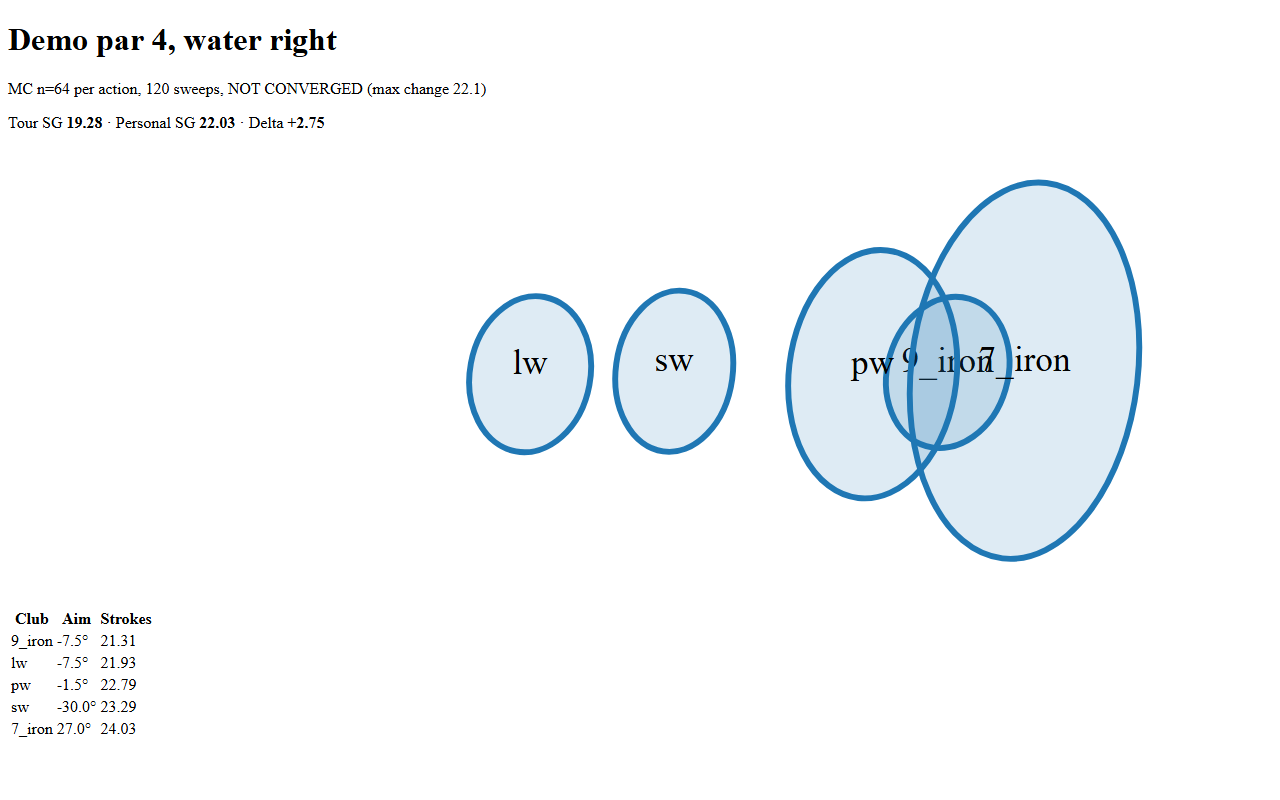
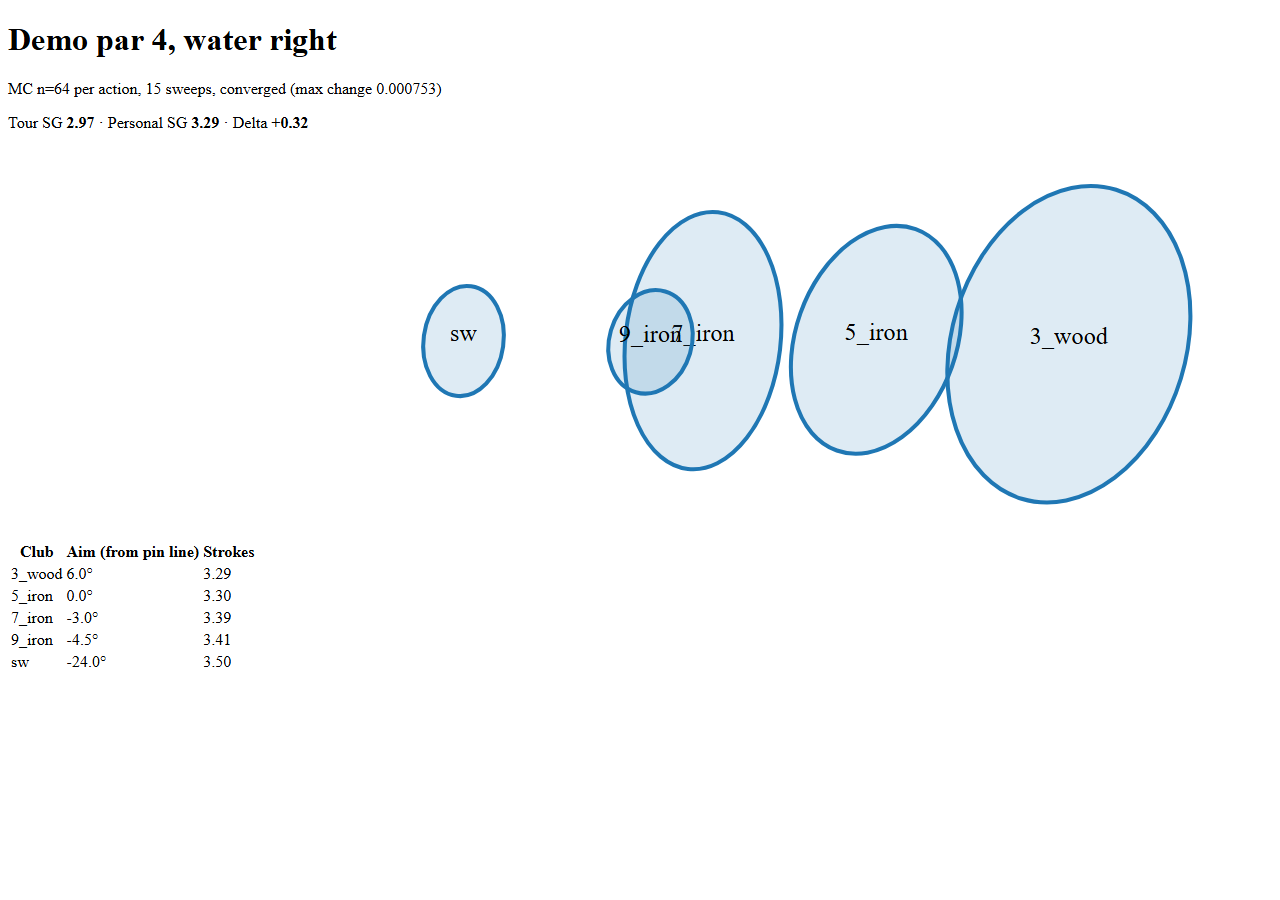
feat(sg): converged demo numbers, pin-relative aim labels, green_terminal docstring (#14572)
Demo par 4 now converges (15 sweeps); screenshots re-shot at 1280 and 390x844.

diff --git a/src/shared/python/sg_optimizer/strategy_view.py b/src/shared/python/sg_optimizer/strategy_view.py
@@ -113,12 +113,12 @@ def render_text(view: StrategyView) -> str:
         f"Expected strokes  tour: {tour}   personal: {personal}   delta: {delta}",
         _solve_note(view),
         "",
-        f"{'club':<10}{'aim':>7}{'strokes':>9}{'carry':>8}{'95% long':>10}{'95% wide':>10}",
+        f"{'club':<10}{'aim vs pin':>11}{'strokes':>9}{'carry':>8}{'95% long':>10}{'95% wide':>10}",
     ]
     for o in view.options:
         e = o.ellipse
         lines.append(
-            f"{o.club:<10}{o.aim_deg:>6.1f}°{o.expected_strokes:>9.2f}"
+            f"{o.club:<10}{o.aim_deg:>10.1f}°{o.expected_strokes:>9.2f}"
             f"{e.centre_along:>8.0f}{e.semi_major:>10.1f}{e.semi_minor:>10.1f}"
         )
     return "\n".join(lines) + "\n"
@@ -150,5 +150,5 @@ def render_html(view: StrategyView) -> str:
         f"<p>Tour SG <b>{tour}</b> &middot; Personal SG <b>{personal}</b> &middot; Delta <b>{delta}</b></p>"
         f"<svg viewBox='-10 {-span:.0f} {reach + 20:.0f} {2 * span:.0f}' width='100%' "
         f"role='img' aria-label='Dispersion ellipses'>{shapes}</svg>"
-        f"<table><tr><th>Club</th><th>Aim</th><th>Strokes</th></tr>{rows}</table>"
+        f"<table><tr><th>Club</th><th>Aim (from pin line)</th><th>Strokes</th></tr>{rows}</table>"
     )

diff --git a/src/shared/python/sg_optimizer/strategy.py b/src/shared/python/sg_optimizer/strategy.py
@@ -55,10 +55,10 @@ class SolveSettings:
 def green_terminal(raster: LieRaster) -> LieRaster:
     """Copy of ``raster`` where every green cell ends the hole.
 
-    The MDP has no putting model, so with only the pin cell terminal the
-    expected strokes do not converge. Ending on the green gives *strokes to
-    reach the green*, which converges and still ranks tee shots by their
-    hazard and dispersion risk; add putting separately.
+    The MDP has no putting model, so the number it produces measures *strokes to
+    reach the green*, not strokes to hole out; add putting separately. It still
+    ranks tee shots by their hazard and dispersion risk. Convergence comes from
+    the solver (common random numbers, pin-relative aims), not from this relabel.
     """
     codes = raster.codes.copy()
     codes[codes == LIE_CODES["green"]] = LIE_CODES["holed"]

diff --git a/src/shared/python/sg_optimizer/strategy_cli.py b/src/shared/python/sg_optimizer/strategy_cli.py
@@ -45,7 +45,8 @@ def add_strategy_parser(subparsers: argparse._SubParsersAction) -> None:
         "--pin-only",
         action="store_true",
         help="end the hole only at the pin cell (default: any green cell, i.e. "
-        "strokes to reach the green; the pin-only solve does not converge)",
+        "strokes to reach the green; pin-only targets one cell, so its value "
+        "depends on the raster resolution)",
     )
     p.add_argument("--html", metavar="PATH", help="also write the HTML/SVG view")
     hole = p.add_mutually_exclusive_group(required=True)
